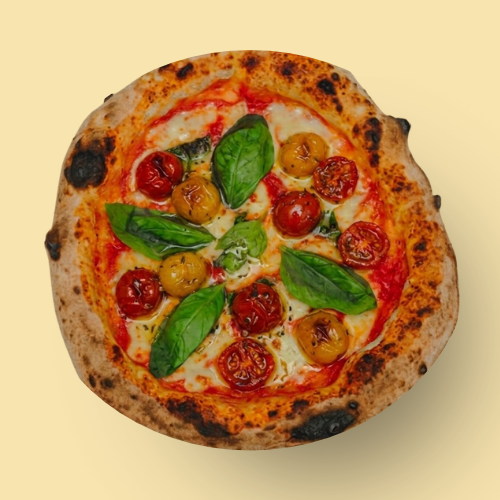
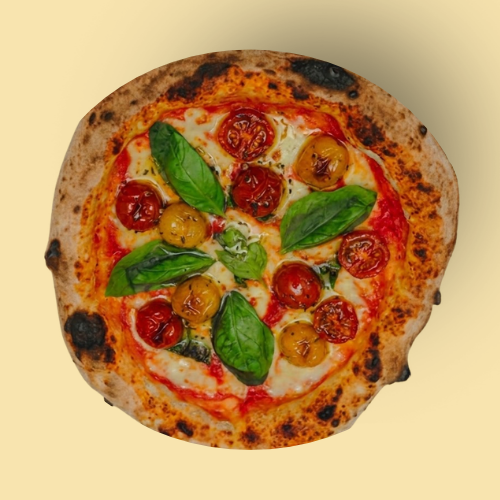
modificaciones previas

diff --git a/index.html b/index.html
@@ -64,7 +64,7 @@
 <!--       <h3 class="menu-cat-title">Clásicas</h3>
  -->      <div class="menu-grid">
         <div class="pizza-card">
-          <div class="card-img"><img src="./img/pizzas/margarita.png" alt="Pizza Margherita"></div>
+          <div class="card-img"><img src="./img/pizzas/margarita (2).png" alt="Pizza Margherita"></div>
           <div class="card-body">
             <div class="card-top"><h4 class="card-name">MARGHERITA</h4><!-- <span class="card-price">$10.999</span> --></div>
             <p class="card-desc">Pomodoro, muzzarella, albahaca fresca, aceite de oliva</p>
@@ -78,28 +78,28 @@
           </div>
         </div>
         <div class="pizza-card">
-          <div class="card-img"><img src="./img/pizzas/masa.png" alt="Pizza Pesto"></div>
+          <div class="card-img"><img src="./img/pizzas/pestocaramelizada.webp" alt="Pizza Pesto"></div>
           <div class="card-body">
             <div class="card-top"><h4 class="card-name">SPECIALE DI MASA</h4><!-- <span class="card-price">$12.000</span> --></div>
             <p class="card-desc">Pomodoro, muzzarella, roquefort, cebolla caramelizada, pesto, nueces</p>
           </div>
         </div>
         <div class="pizza-card">
-          <div class="card-img"><img src="./img/pizzas/fugazza.png" alt="Pizza Fugazza"></div>
+          <div class="card-img"><img src="./img/pizzas/cebolla.jpeg" alt="Pizza Fugazza"></div>
           <div class="card-body">
-            <div class="card-top"><h4 class="card-name">FUGAZZA</h4><!-- <span class="card-price">$12.000</span> --></div>
+            <div class="card-top"><h4 class="card-name">FUGASSA</h4><!-- <span class="card-price">$12.000</span> --></div>
             <p class="card-desc">Pomodoro, muzzarella, mix de cebolla's, aceite de oliva</p>
           </div>
         </div>
         <div class="pizza-card">
-          <div class="card-img"><img src="./img/pizzas/funghi.png" alt="Pizza Pesto"></div>
+          <div class="card-img"><img src="./img/pizzas/calabressa.png" alt="Pizza Pesto"></div>
           <div class="card-body">
             <div class="card-top"><h4 class="card-name">FUNGHI</h4><!-- <span class="card-price">$13.500</span> --></div>
             <p class="card-desc">Pomodoro, champiñones confitados, muzzarella, aceite de oliva</p>
           </div>
         </div>
         <div class="pizza-card">
-          <div class="card-img"><img src="./img/pizzas/marina.png" alt="Pizza Marinara"></div>
+          <div class="card-img"><img src="./img/pizzas/margarita queso.jpg" alt="Pizza Marinara"></div>
           <div class="card-body">
             <div class="card-top"><h4 class="card-name">MARINARA</h4><!-- <span class="card-price">$8.500</span> --></div>
             <p class="card-desc">Pomodoro, orégano, ajo, albahaca fresca, aceite de oliva</p>
